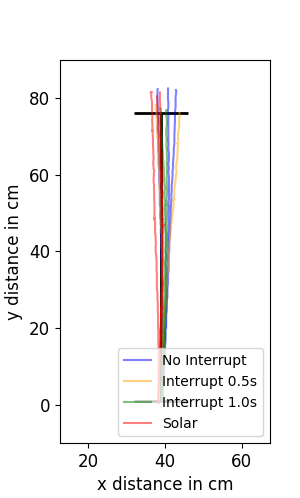
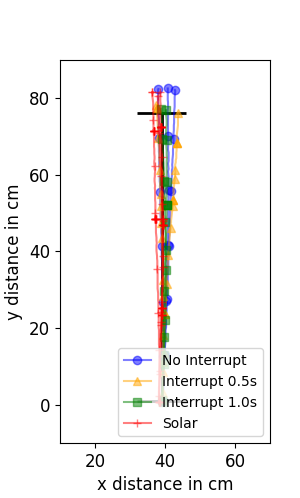
Update figures and small changes

diff --git a/Latex/Thesis/chapters/evaluation.tex b/Latex/Thesis/chapters/evaluation.tex
@@ -62,12 +62,12 @@ To evaluate different on times, besides the one created with the 22\,mF supercap
 The power interrupts, i.e. the capacitor running out of energy, are created artificially using a timer that resets the MCU.
 If the interrupts are generated artificially, the robot is powered from a battery.
 The MSP430FR5969 has the functionality to enable a brownout reset through software, which is used to simulate the event of the supply voltage dropping below the required operating voltage~\cite{msp430fr_family_guide_2017}.
-A timer is used to generate the power interrupt after a predefined time.
+A timer is used to generate the power interrupt after a predefined on time.
 
 \subsubsection{On Time}
 
 With the selected capacitor of 22\,mF, the robot can operate around 1 second. 
-To find the minimal on time that is required to allow control the robot, it is programmed to perform a four second straight movement.
+To find the minimal on time that is required to allow control of the robot, it is programmed to perform a four second straight movement.
 The movement is recorded for each target duty cycle and the on times of 0.4\,s, 0.3\,s and 0.2\,s are evaluated.
 
 The results in Figure \ref{fig:decreasing_power_period} show that for the higher duty cycle targets an on time of 0.3\,s leads to significant drift to one side, which is classified as uncontrolled behavior.

diff --git a/Code/Python/Video experiments/plot_movement.py b/Code/Python/Video experiments/plot_movement.py
@@ -59,7 +59,7 @@ def plot_raw_data(data_list):
 
     if movement == 1:
         plt.figure(figsize=(5, 5))
-    elif movement == 4:
+    elif movement == 3 or movement == 4:
         plt.figure(figsize=(3, 5))
         plt.subplots_adjust(left=0.2)
     for dlist in data_list:
@@ -81,13 +81,15 @@ def plot_raw_data(data_list):
     plt.ylabel('y distance in cm', fontsize=12)
     plt.xticks(fontsize=12)
     plt.yticks(fontsize=12)
+    if movement == 3:
+        plt.xlim(xmin=10, xmax=70)  # adjust the max leaving min unchanged
     if movement == 4:
         plt.xlim(xmin=20, xmax=80)  # adjust the max leaving min unchanged
     #plt.axes().set_aspect('equal', 'datalim')
     # remove duplicate labels
     handles, labels = plt.gca().get_legend_handles_labels()
     by_label = OrderedDict(zip(labels, handles))
-    plt.legend(by_label.values(), by_label.keys(), loc='upper right')
+    plt.legend(by_label.values(), by_label.keys(), loc='lower right')
     plt.show()
 
 
@@ -95,7 +97,7 @@ def plot_raw_data(data_list):
 
 ddir = 'Csv_Data/'
 
-movement = 1
+movement = 3
 set = 2
 pwm = ['30', '50', '70']
 #re_list = ['', '_int500', '_int750', '_int1000', '_int1250']

diff --git a/Latex/Thesis/chapters/design_and_implementation.tex b/Latex/Thesis/chapters/design_and_implementation.tex
@@ -73,7 +73,7 @@ The PCB increases stability, eases connection and reduces of the total weight of
 Additionally, a PCB was required because of use of small size ICs (no lead packaging).
 A detailed schematic of the PCB can be found in Appendix \ref{app:schematic_robot}.
 
-An overview of both the top and bottom side of the PCB is shown in Figure \ref{fig:pcb_robot}.
+The size of the PCB is 30$\times$30\,mm, and an overview of both the top and bottom side of the PCB is shown in Figure \ref{fig:pcb_robot}.
 The PCB contains headers to connect the solar panel and headers to connect all the required pins from the WISP.
 An additional header is available to connect a battery for testing purposes.
 All the large components are mounted externally: the solar panel, WISP and the motors.
